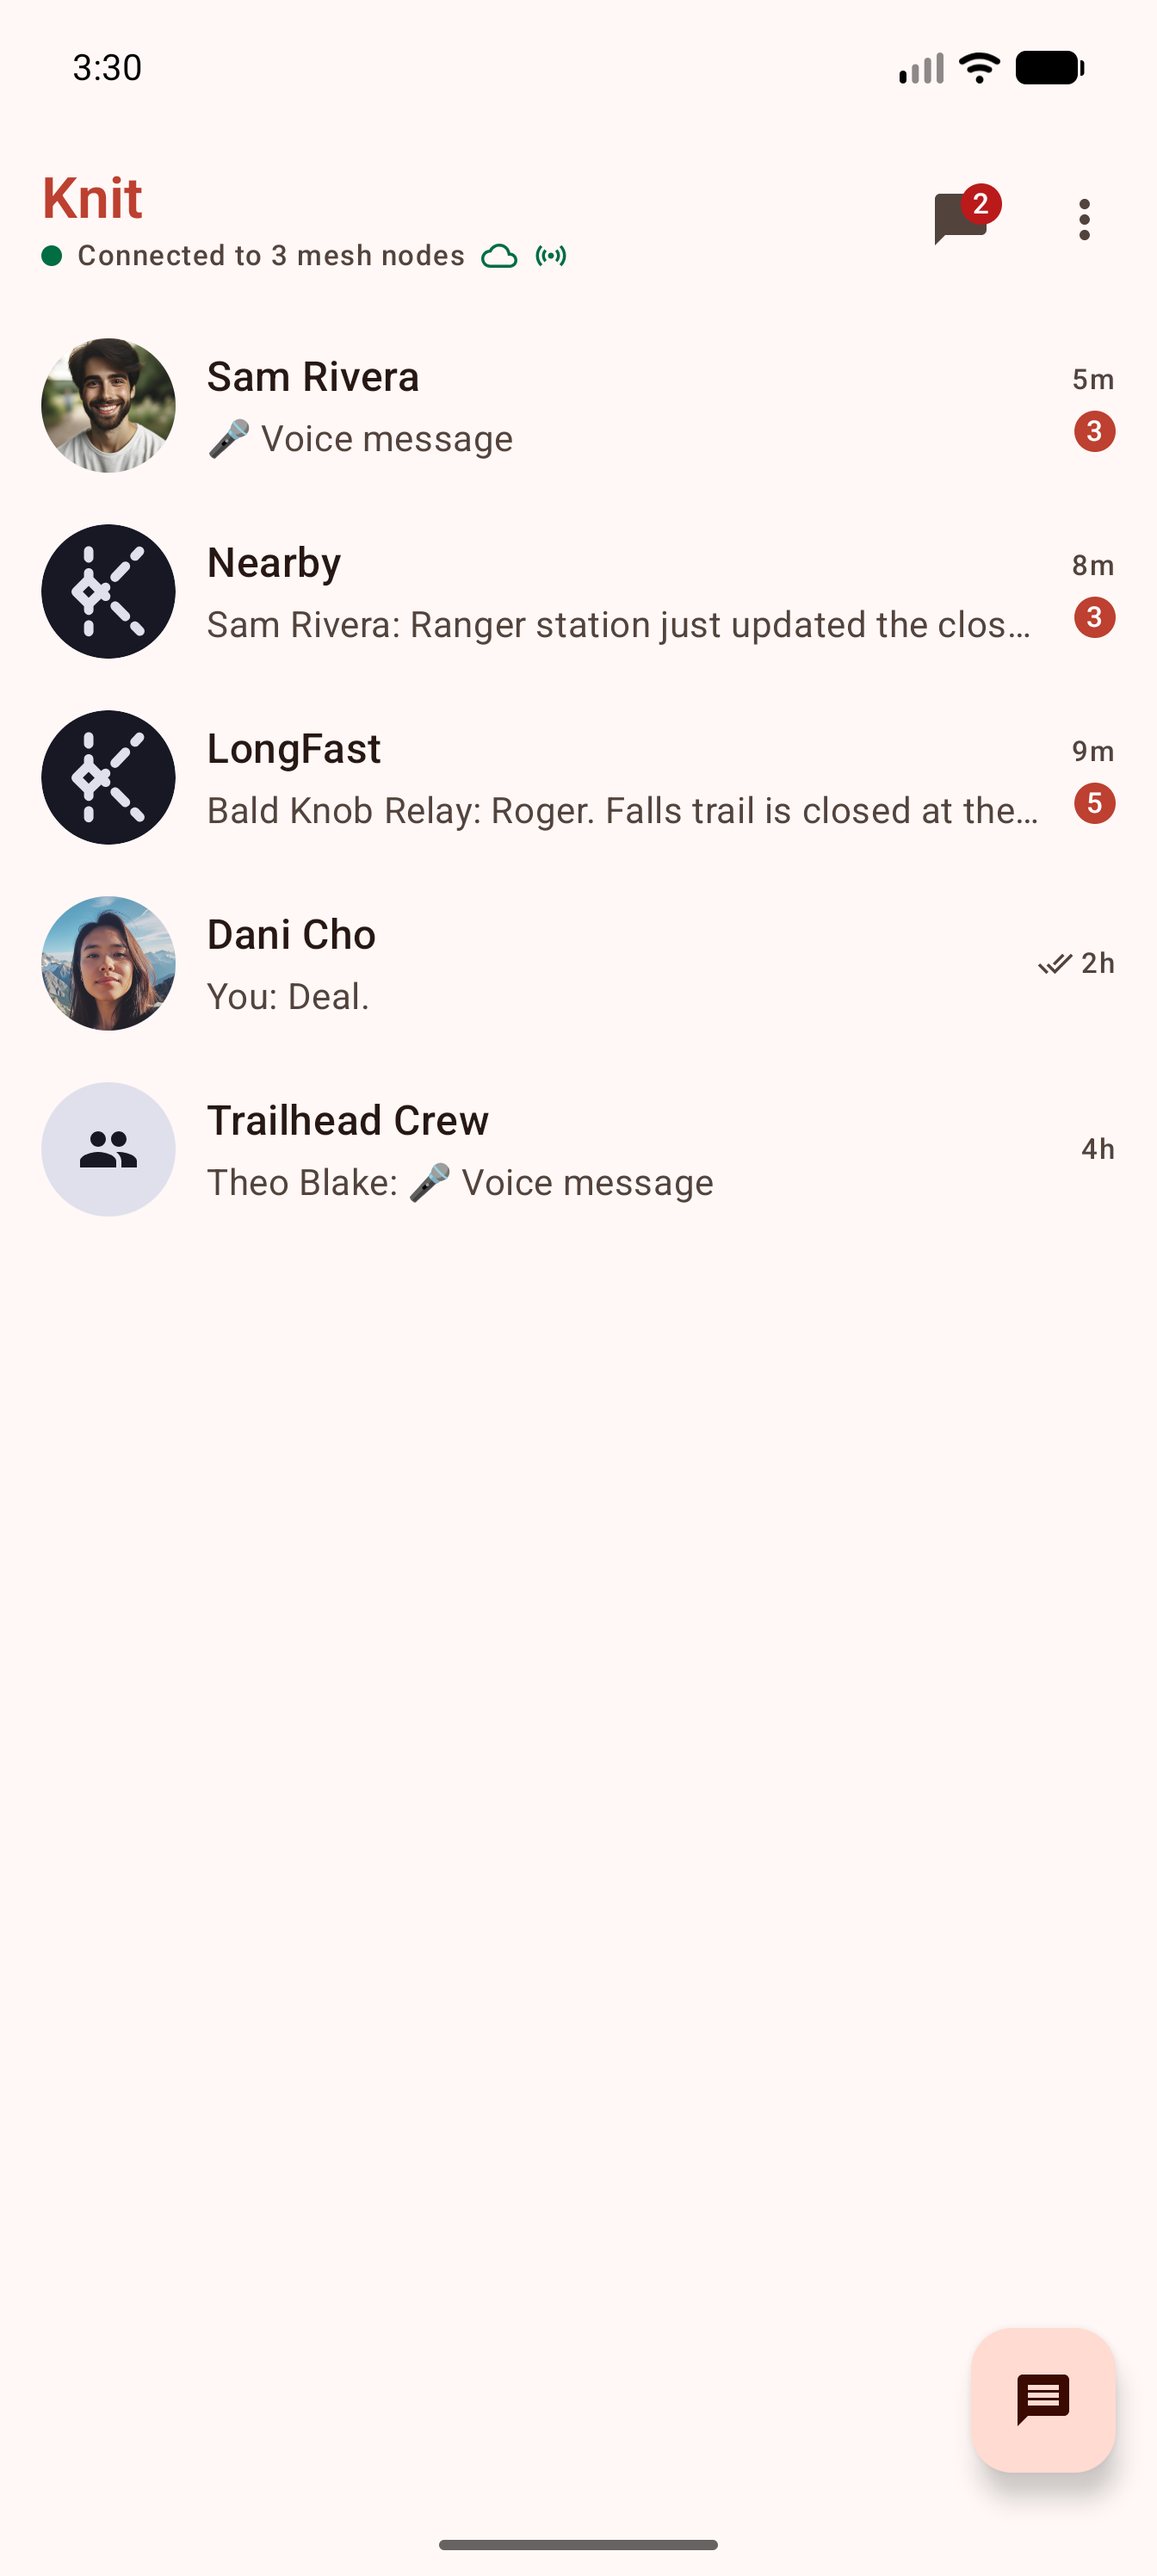
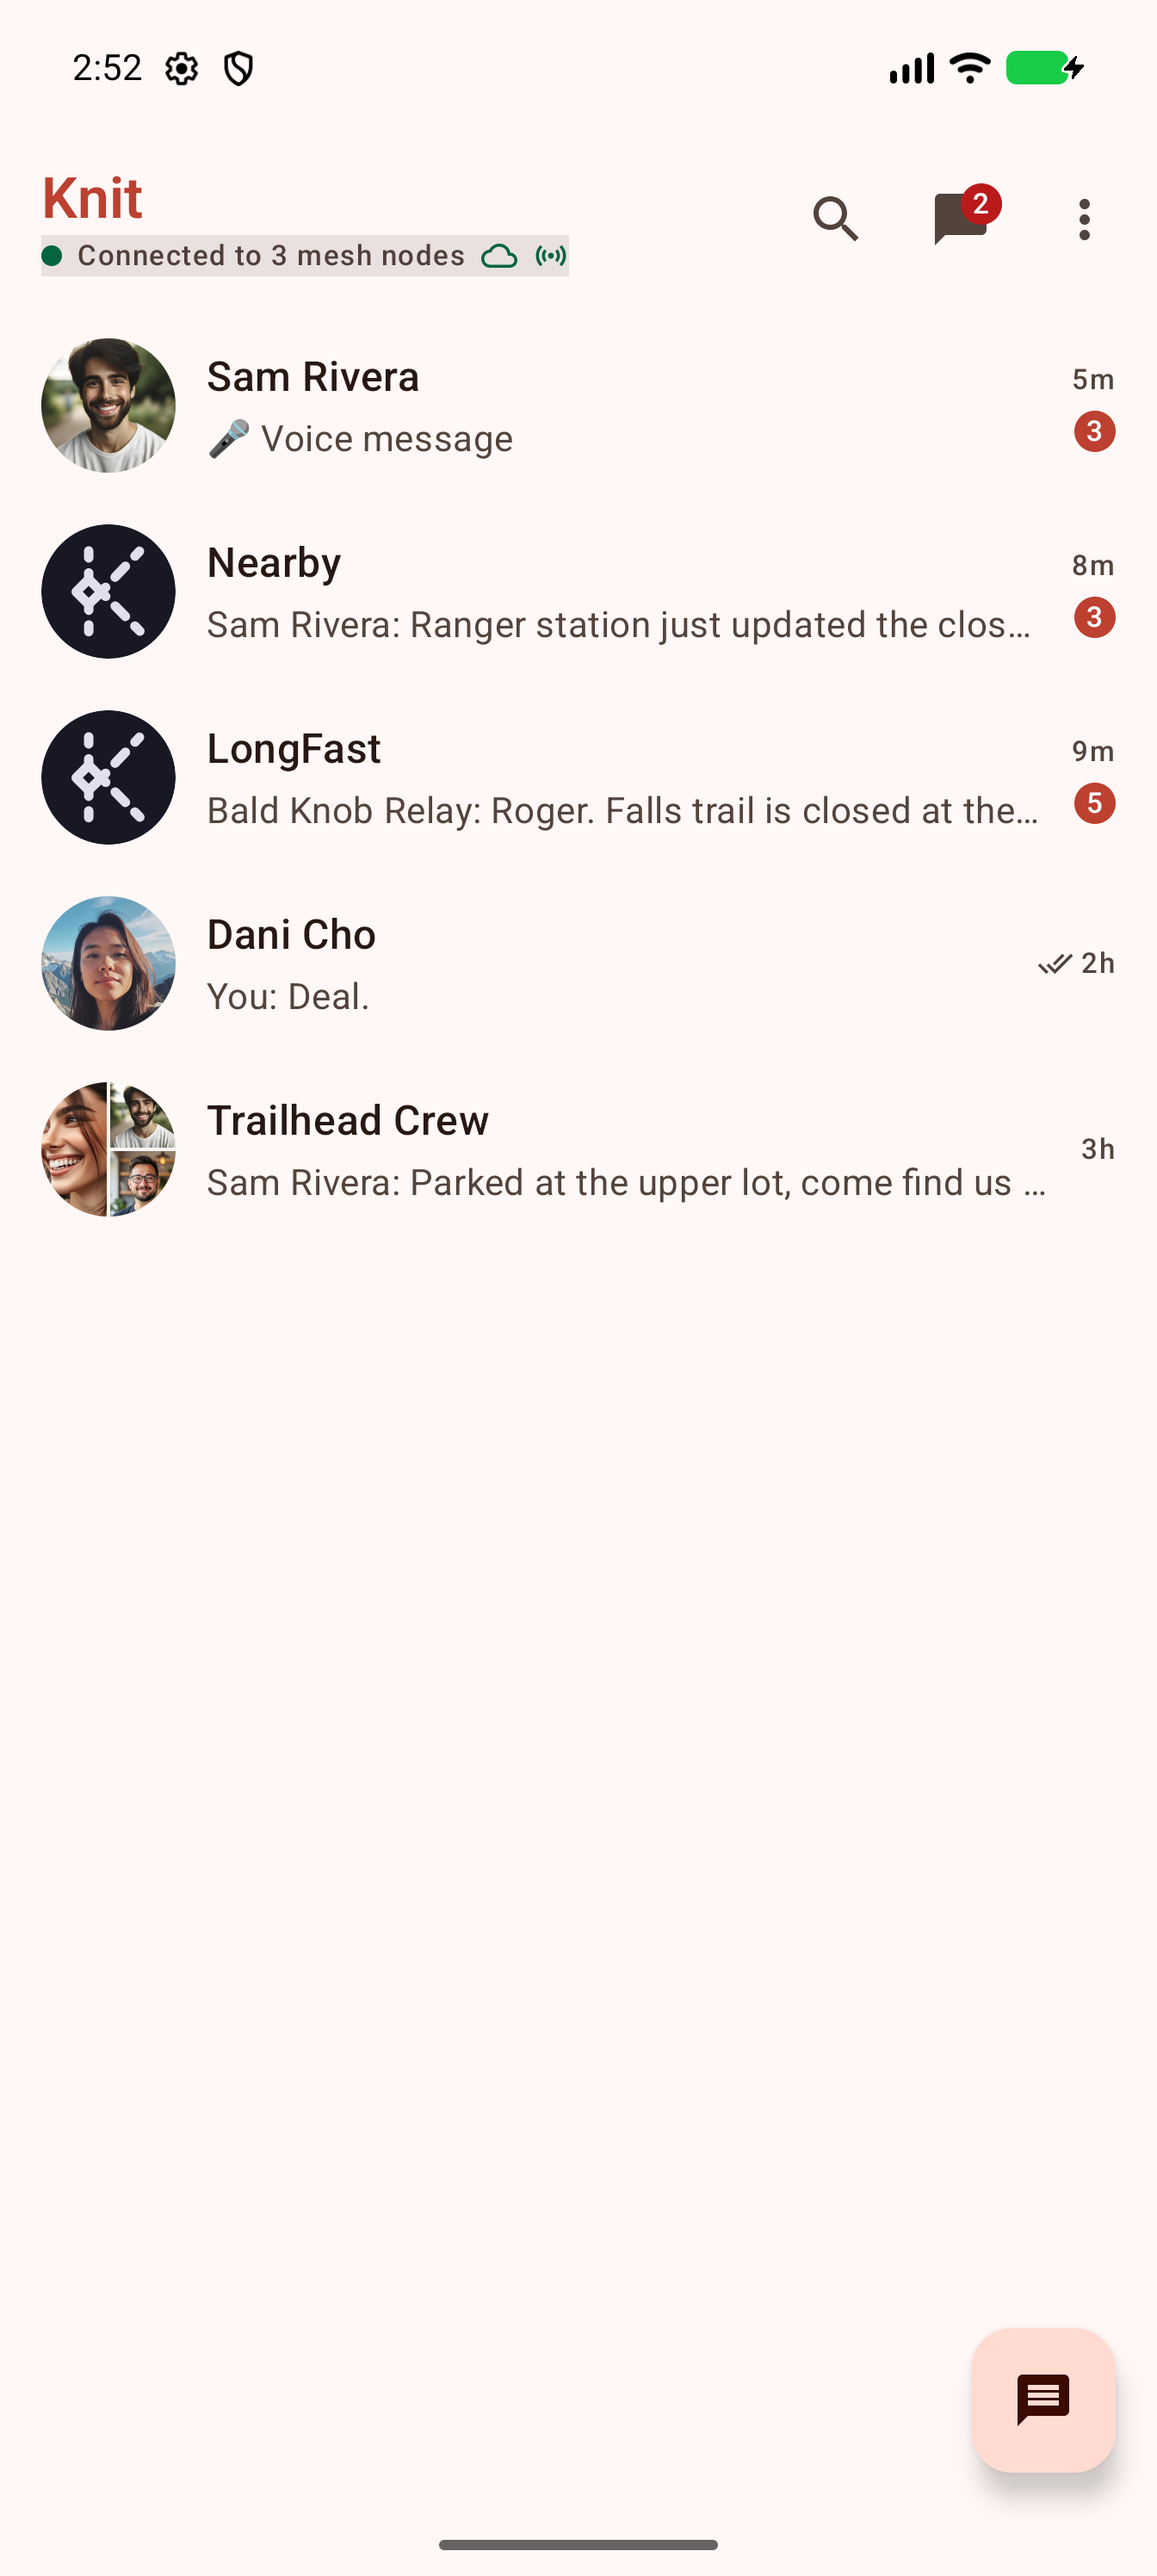
docs(store): refresh the Play screenshots and swap in Your mesh and Search
Relays and onboarding leave the listing for the two screens new since
2.5.1. The demo seed banked Your mesh's lifetime counters on every cold
start, so each capture inflated the last; it now seeds an empty journal.

diff --git a/app/src/debug/java/app/getknit/knit/demo/DemoWriter.kt b/app/src/debug/java/app/getknit/knit/demo/DemoWriter.kt
@@ -28,6 +28,7 @@ import app.getknit.knit.mesh.protocol.FrameType
 import app.getknit.knit.mesh.protocol.LinkPreviewBlob
 import app.getknit.knit.mesh.protocol.Mention
 import app.getknit.knit.mesh.protocol.ReplyRef
+import kotlinx.coroutines.flow.first
 import org.koin.core.Koin
 import java.security.MessageDigest
 
@@ -173,14 +174,20 @@ class DemoWriter(
      * The custody rows go in through the DAO with empty bytes: the demo build never starts the mesh, so
      * nothing re-serves them, and the `ForwardRepository` digest is deliberately left untouched — there is
      * no cue plane here for it to drive. Every stat therefore reads non-zero without a radio in the room.
+     *
+     * The journal is additive by design (no read-before-write, so flushes never race), and the seed runs on
+     * every cold start of the demo build — so the lifetime numbers are banked only into an empty journal, or
+     * each screenshot launch would add another 212 to the one before it.
      */
     suspend fun seedYourMesh(now: Long) {
-        settings.addContributions(
-            passedAlong = YOUR_MESH_PASSED_ALONG,
-            deliveredToRecipient = YOUR_MESH_HANDED_DIRECT,
-            now =
-                now - YOUR_MESH_SINCE_MS,
-        )
+        if (settings.contributionTotals.first().passedAlong == 0L) {
+            settings.addContributions(
+                passedAlong = YOUR_MESH_PASSED_ALONG,
+                deliveredToRecipient = YOUR_MESH_HANDED_DIRECT,
+                now =
+                    now - YOUR_MESH_SINCE_MS,
+            )
+        }
         val strangers = (1..YOUR_MESH_STRANGERS).map { "stranger-%02d".format(it) }
         metPeers.recordMet(scenario.peers.map { nodeId(it.slot) } + strangers, now)
         repeat(YOUR_MESH_CARRYING) { i ->

diff --git a/.agents/memory/roadmap.md b/.agents/memory/roadmap.md
@@ -71,7 +71,7 @@ doc). **Don't start a deferred item without explicit direction.**
   call guarded against `SecurityException`); and swapping `KnitApp`'s inline nav transition for
   `KnitMotion.enterStep`/`exitStep`, the same recipe. **Still owed:** the emulator trial (deny twice → Open
   settings → grant → Start; `pm revoke` → relaunch on the permissions page; a cold contact link across the
-  gate), the ATF pass over the three pages, and re-capturing `08_onboarding.png`.
+  gate), the ATF pass over the three pages, and re-capturing the three onboarding shots (`onboarding`, `onboarding-name`, `onboarding-permissions` — website material since the 2026-09-14 listing swap; done 2026-09-14).
 
 - **The Your mesh screen's follow-ons** (ADR 2026-09.2v2t, 2026-09-13 — the screen ships with four numbers:
   nearby now, carrying now, passed along / handed straight to all time, people met). Named and left: **streaks
